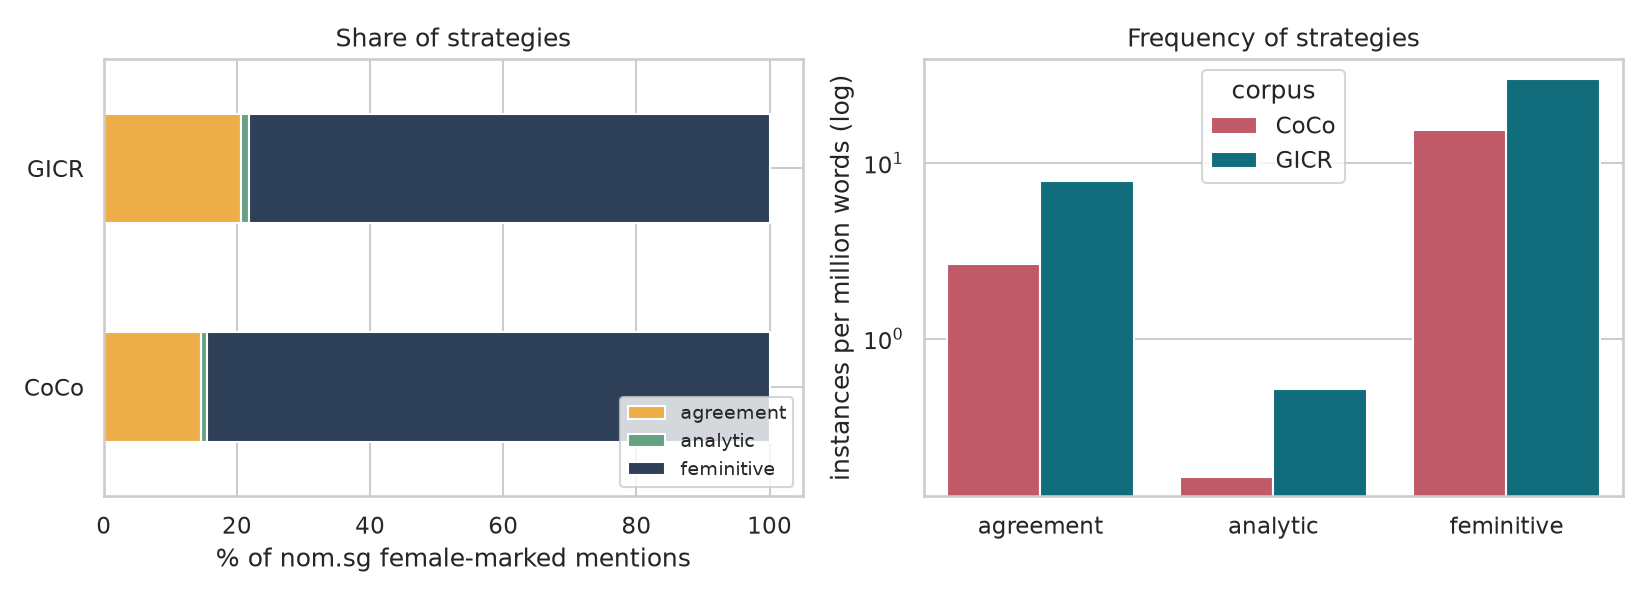
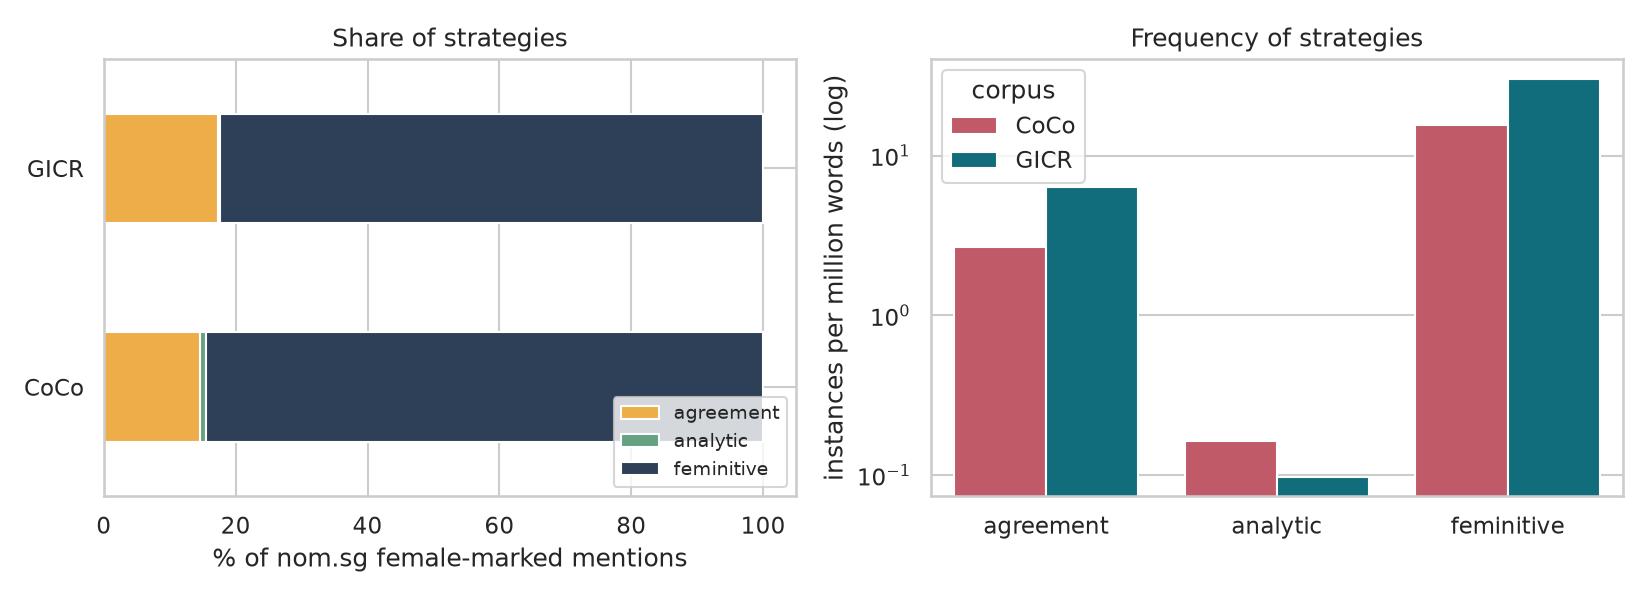
GICR precision correction for two-word queries; final RQ1 numbers

diff --git a/README.md b/README.md
@@ -75,15 +75,19 @@ All numbers below are produced by [`notebooks/feminine_reference.ipynb`](noteboo
 
 ![strategies](figures/strategies.png)
 
-| nom.sg mentions | CoCo, tokens | CoCo, % | GICR, tokens | GICR, % |
+| nom.sg mentions | CoCo, tokens | CoCo, % | GICR, tokens* | GICR, % |
 |---|---|---|---|---|
-| feminitive (*авторка*) | 378 | 84.6 | 470 127 | 78.1 |
-| agreement (*наша врач*, *врач сказала*) | 65 | 14.5 | 123 720 | 20.6 |
-| analytic (*женщина-врач*) | 4 | 0.9 | 7 999 | 1.3 |
+| feminitive (*авторка*) | 378 | 84.6 | 470 127 | 82.4 |
+| agreement (*наша врач*, *врач сказала*) | 65 | 14.5 | 98 614 | 17.3 |
+| analytic (*женщина-врач*) | 4 | 0.9 | 1 527 | 0.3 |
 
-* In both corpora a woman is named mainly with a **morphological feminitive**; analytic constructions are marginal (about 1%).
+\* GICR two-word counts are corrected for precision: 72% of sampled lines were clean for adjective agreement, 76% for verb agreement,
+and only 18% for *женщина* + base (most raw hits were lists like *«мужчина, женщина, врач…»*).
+
+* In both corpora a woman is named mainly with a **morphological feminitive**; agreement on a masculine noun accounts for about one mention in six,
+  analytic constructions are marginal.
 * Chats use feminitives slightly more and agreement slightly less than VK posts. The difference is significant only because GICR is huge
-  (χ² = 10.9, p = 0.004) and is negligible as an effect (Cramér's V = 0.004).
+  (χ² = 8.7, p = 0.013) and is negligible as an effect (Cramér's V = 0.004).
 
 ### 4.2 Feminitives: frequency and suffixes
 
